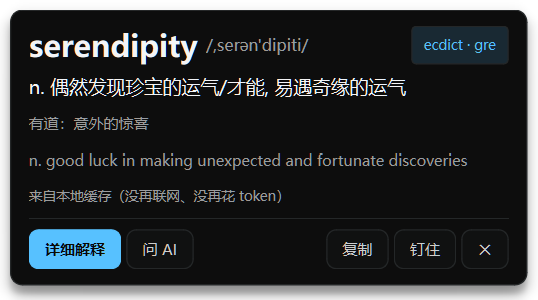
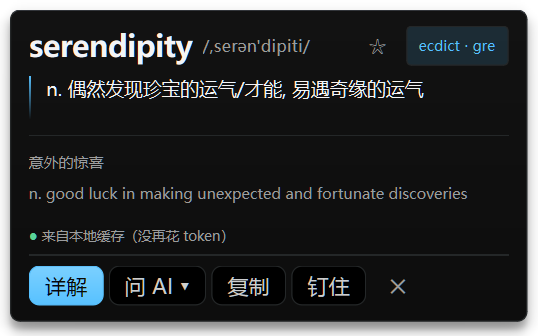
README：补记词板一节 + 刷新被这轮 UI 改动作废的三张截图

diff --git a/README.md b/README.md
@@ -96,9 +96,24 @@ powershell -ExecutionPolicy Bypass -File helper\build-ocr.ps1
 python -m snapword.cli probe          :: OCR helper 通不通
 python -m snapword.cli ocr 图片.png    :: 只识别
 python -m snapword.cli look serendipity --detail
-python -m snapword.cli look running --no-net
+python -m snapword.cli running --no-net
 python -m snapword.cli ask serendipity "它和 luck 的区别？"
 ```
+
+### 攒词：☆ 存词 → 左侧记词板
+
+卡片词头右上角那个 **☆** 点一下就存进记词板（变 **★**，再点取消）。记词板平时收在主面板
+左边、**跟主面板一起滑**：展开主面板后点「记词板 · N」，它从窗口左缘**滑出来**（带一点过冲
+回弹的手感）；不开它的时候主面板的位置一个像素都不动。
+
+![记词板](docs/wordbook.png)
+
+- 点某一条 = 拿这个词**重新查一次**（还是走同一张卡片）
+- **★** = 标成「已掌握」，会沉到列表底部（不删，就是不碍眼）
+- **✕** 删单条；「清空」删全部（会先问一次）
+- 「导出」存成 Markdown 或 CSV（选后缀就行；CSV 带 BOM，Excel 打开不乱码）
+- 存在 `data\wordbook.db` 里 —— 跟查询缓存 `data\cache.db` **分开**：缓存可以随时删掉重来，
+  记词板是你自己攒的东西
 
 ## 目录
 
